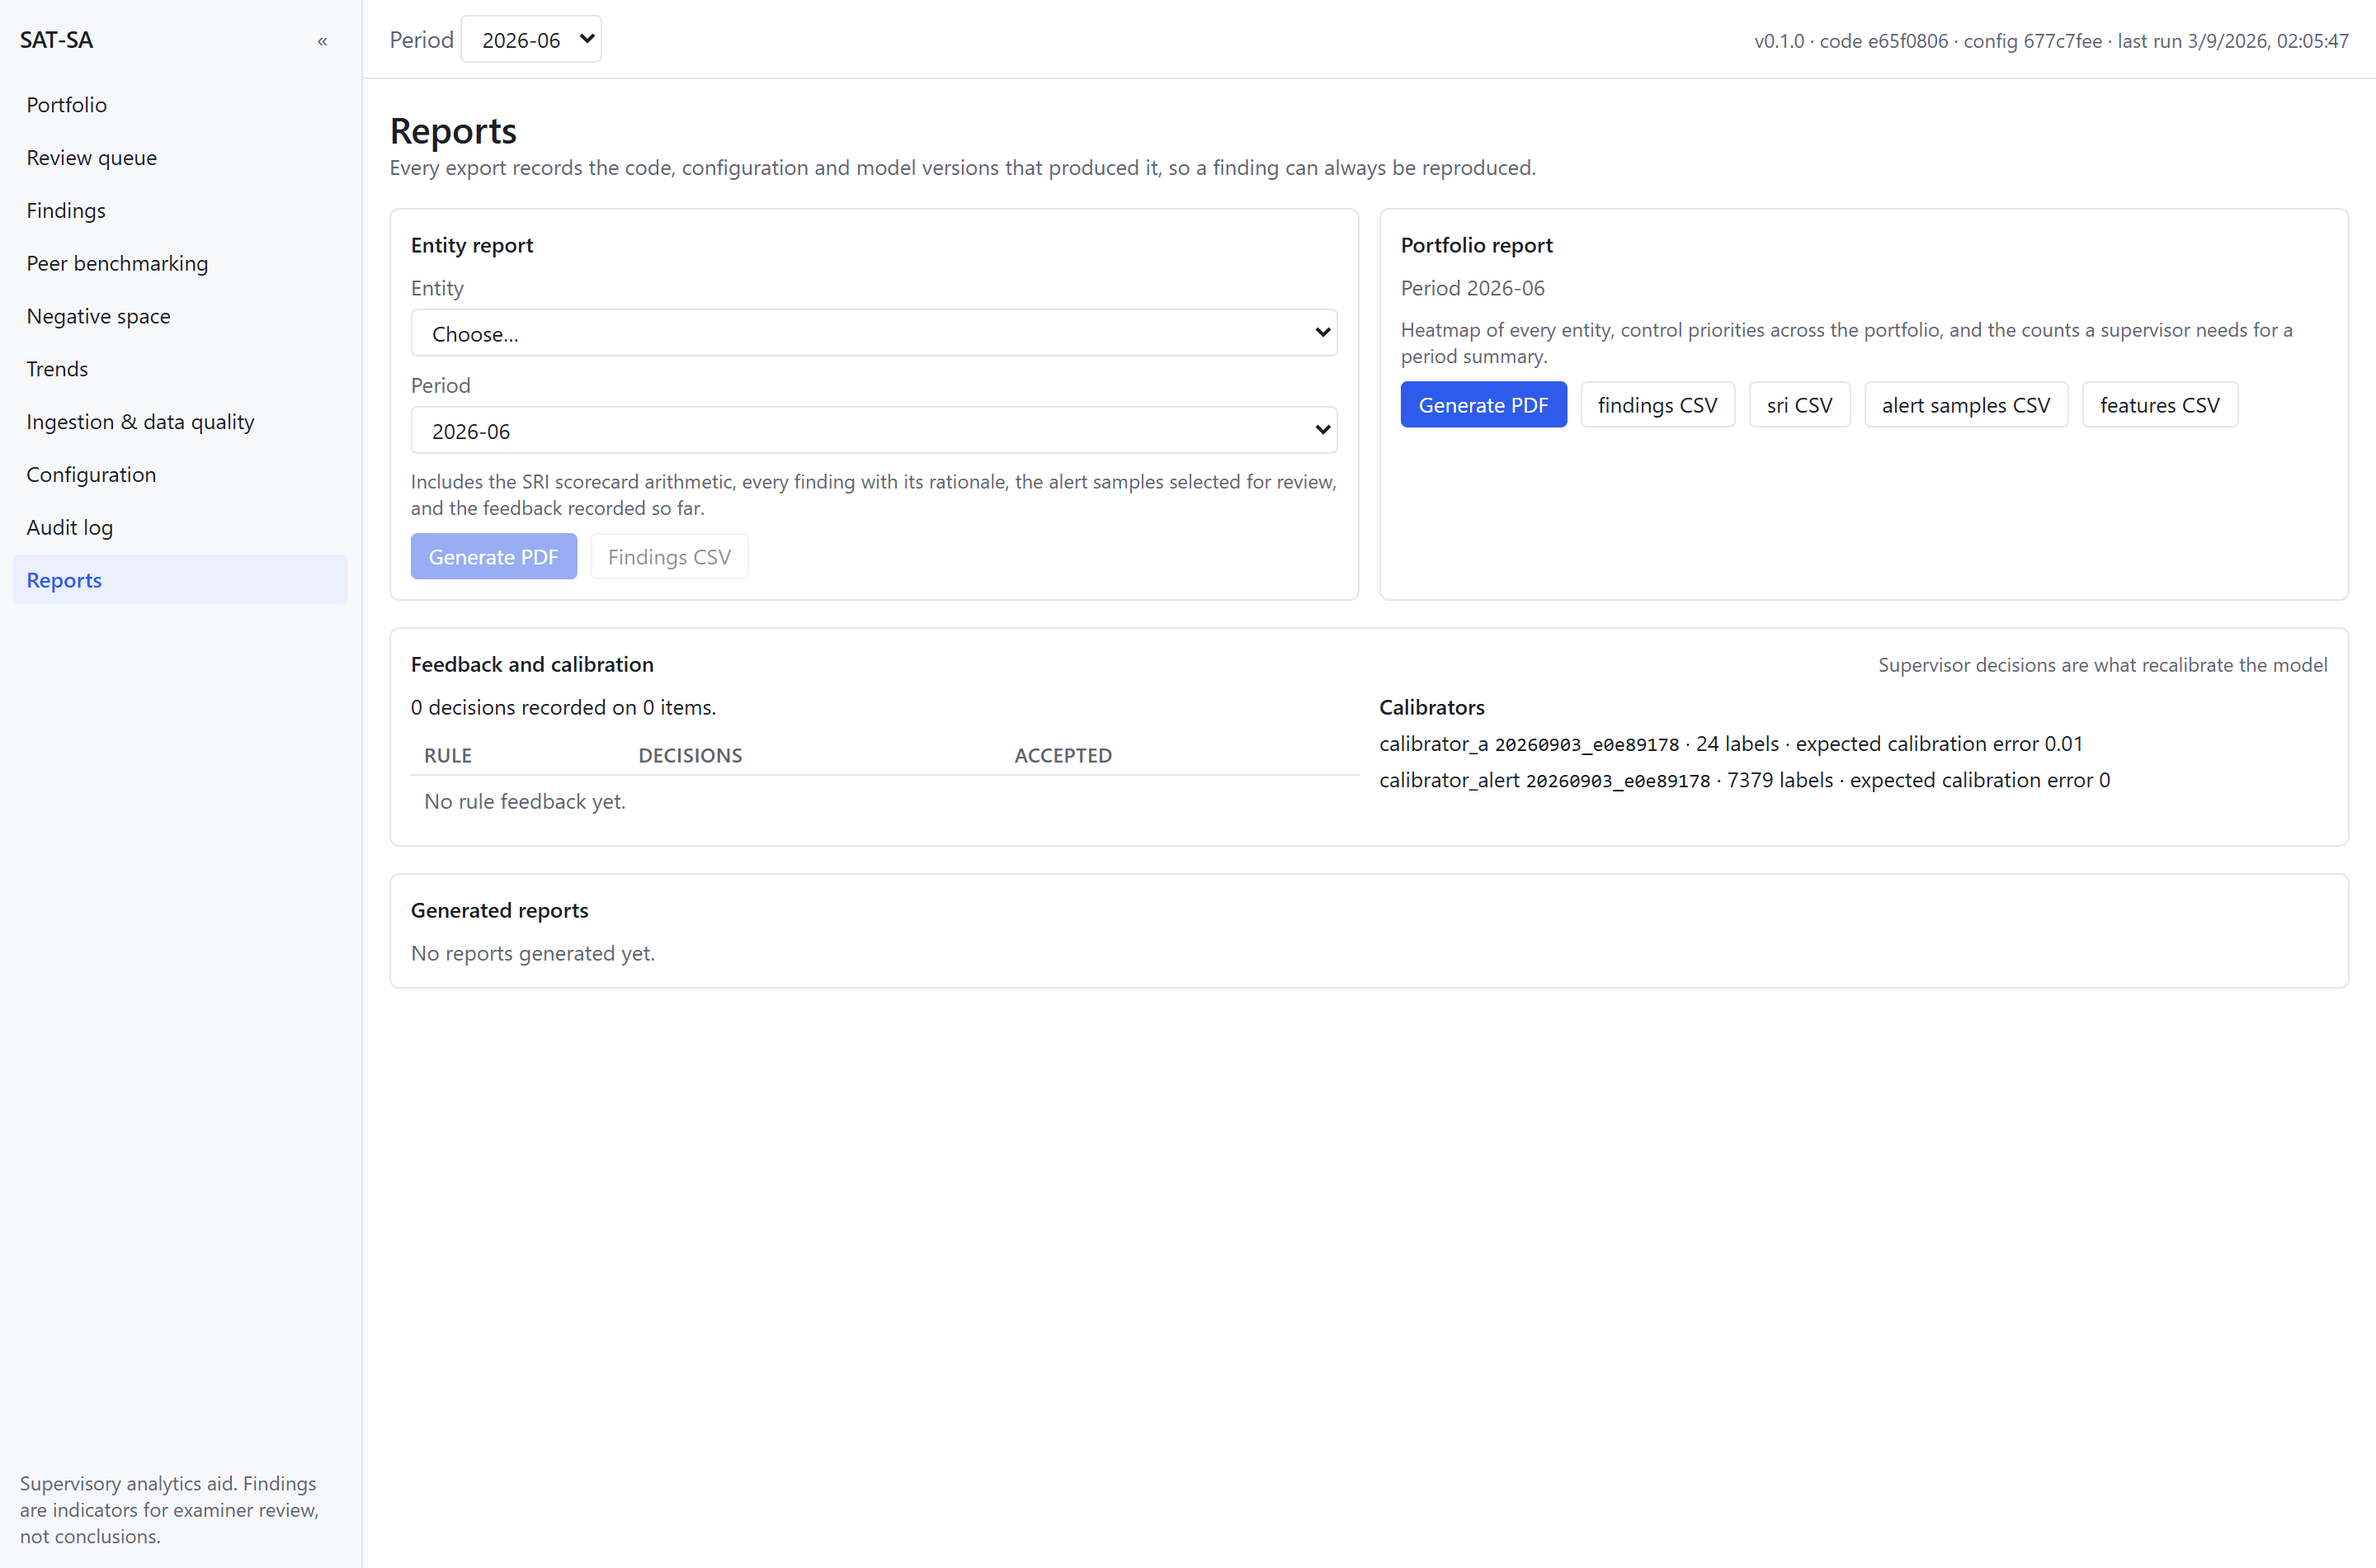
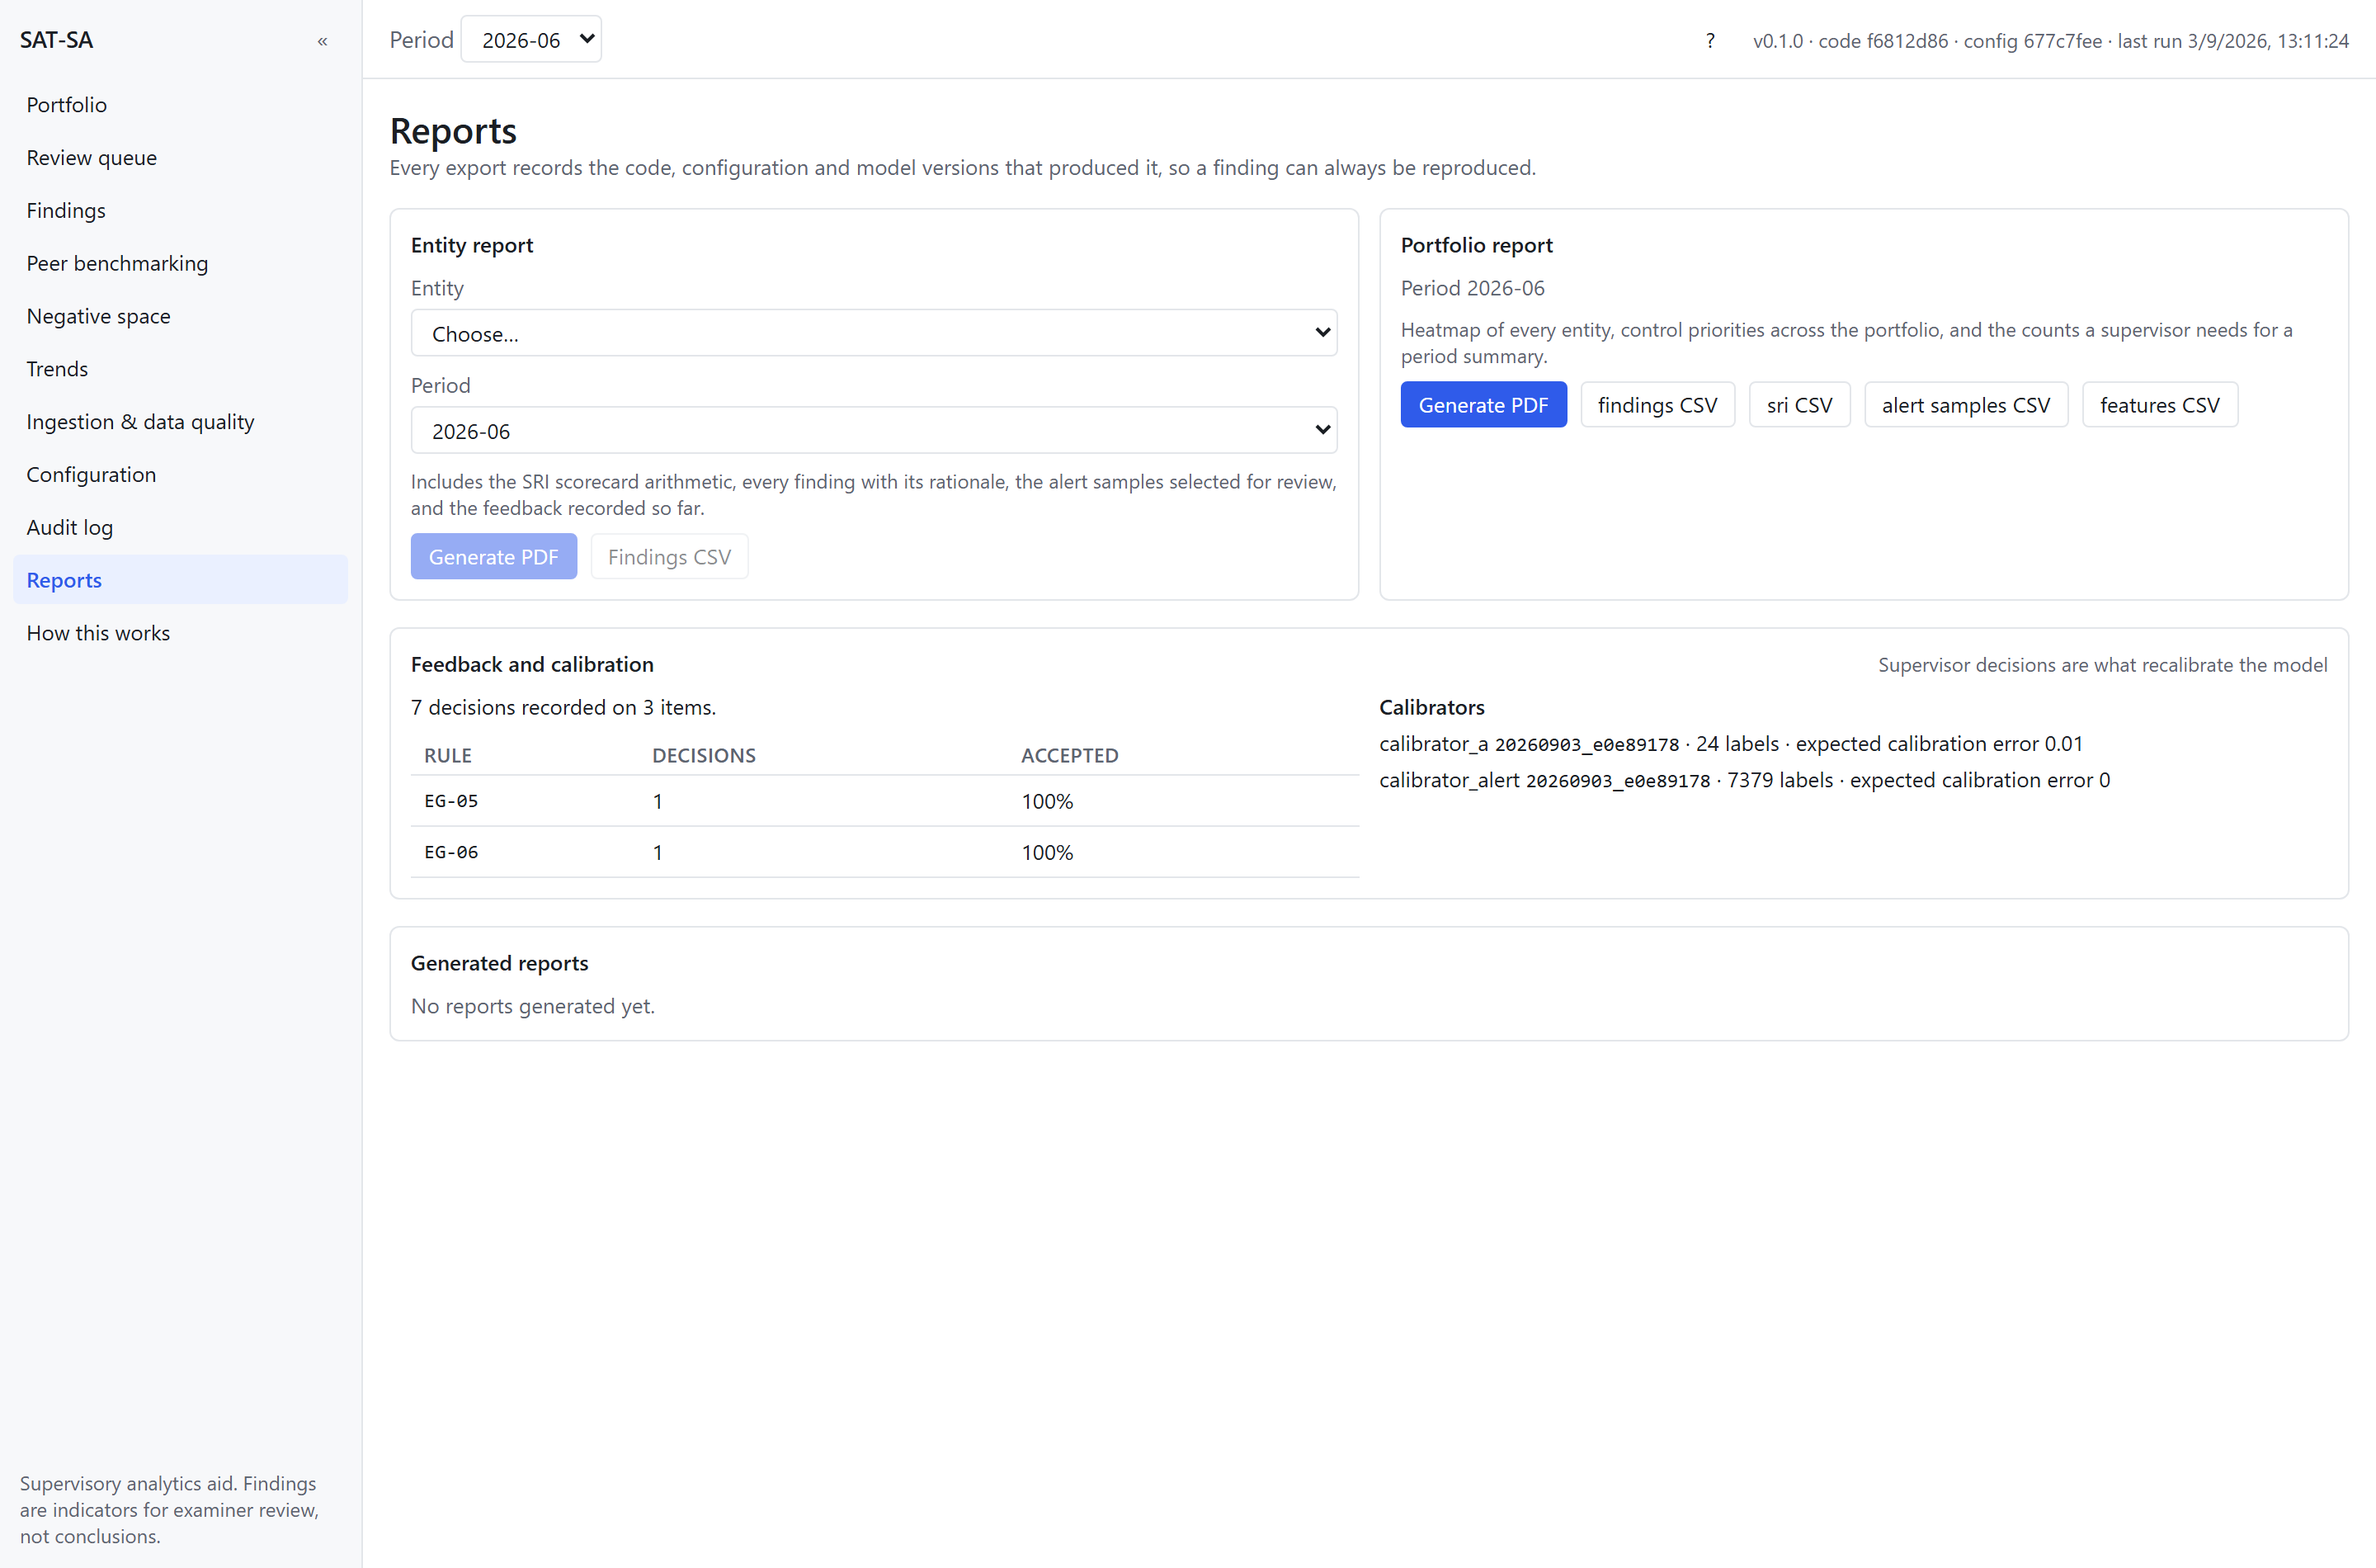
docs: describe the in-app guide, and screenshot it
README and the walkthrough now say the tool explains itself, and the walkthrough
gains a section on the three ways into the guide and on why it cannot go stale.

screenshots.py generates two more images from the running application: the
reference page, and the help panel, which is a state rather than a URL and so
has to be opened with the keyboard.

KNOWN_GAPS gap 7 is corrected rather than closed. The dashboard now has 22
frontend tests where it had none, but they are all about the guide; no
supervisory screen has a render test yet, and there is still no axe pass.

diff --git a/dashboard/scripts/screenshots.py b/dashboard/scripts/screenshots.py
@@ -35,6 +35,8 @@ SHOTS: list[tuple[str, str, str]] = [
     ("config", f"/config?period={PERIOD}", "Weights, and the threshold derived from the cost of being wrong"),
     ("audit", f"/audit?period={PERIOD}", "The hash-chained run log"),
     ("reports", f"/reports?period={PERIOD}", "PDF and CSV export, stamped with provenance"),
+    ("guide", "/guide", "The in-app guide: every control, what it does and what it demonstrates"),
+    ("help", "", "The help panel, opened with Shift+/ on any screen"),  # opened, not a bare URL
 ]
 
 
@@ -70,6 +72,15 @@ def main() -> int:
         page.screenshot(path=OUT / "records.png")
         written.append("records")
         print("  records.png")
+
+        # The help panel is a state, not a URL. Shift+/ opens it for whatever screen you are on.
+        page.goto(f"{BASE}/portfolio?period={PERIOD}", wait_until="networkidle")
+        page.wait_for_timeout(1000)
+        page.keyboard.press("Shift+Slash")
+        page.wait_for_timeout(800)
+        page.screenshot(path=OUT / "help.png")
+        written.append("help")
+        print("  help.png")
 
         browser.close()
     print(f"\n{len(written)} screenshots in {OUT}")

diff --git a/docs/walkthrough.md b/docs/walkthrough.md
@@ -159,17 +159,26 @@ node scripts/check-offline.mjs      # fails if the bundle references any externa
 Set the period selector at the top to **2026-06** and start on Portfolio. Every figure
 below is what that period actually shows.
 
+> **The tool also explains itself.** Everything in this part is available inside the running
+> application, next to the controls it describes. Press `Shift` + `/` on any screen for a panel
+> covering the controls in front of you, open **How this works** in the navigation for the full
+> searchable reference, or take the nine-step guided tour. This document is the version you can
+> read without starting the server. See [2.15](#215-the-in-app-guide).
+
 ## 2.1 The shell
 
 Present on every screen:
 
-- **Navigation rail**, ten routes, collapsible with the `«` button. A skip link precedes it
-  for keyboard users.
+- **Navigation rail**, eleven routes, collapsible with the `«` button. A skip link precedes
+  it for keyboard users. The last route, **How this works**, is the guide to the other ten.
 - **Period selector**, top left. It writes to the URL as `?period=2026-06`, so every view is
   deep-linkable and the browser back button works properly.
 - **Provenance chip**, top right: `v0.1.0 · code e65f0806 · config 677c7fee · last run …`.
   Click it to jump to the audit log. This is the answer to "which version produced what I am
   looking at", visible without asking.
+- **Help button** (`?`), top right beside the provenance chip, or `Shift` + `/` from
+  anywhere outside a text field. Opens a panel describing every control on the screen you are
+  currently looking at.
 - **Footer note**: *Supervisory analytics aid. Findings are indicators for examiner review,
   not conclusions.* Deliberately always on screen.
 
@@ -497,3 +506,46 @@ reproducible and audited.
 
 Claiming an accuracy number here would be the one thing that undermines everything else on
 these screens.
+
+---
+
+## 2.15 The in-app guide
+
+![The guide](screenshots/guide.png)
+
+Everything in Part 2 is also inside the application, beside the controls it describes. There
+are three ways in.
+
+**The help panel.** Press `Shift` + `/` on any screen, or click the `?` beside the provenance
+chip. The panel lists every control on the screen you are looking at, with what it does, what
+it demonstrates, which URL parameter it writes, and a **Show me** button that dims the screen
+and points at it. It changes as you navigate. The guard on the shortcut means typing `?` in a
+comment box or a weight field does nothing, as it should.
+
+![The help panel](screenshots/help.png)
+
+**The reference.** **How this works** in the navigation, or `/guide`, describes all 98
+controls in one searchable page. Filter by screen, by kind of control, or by **Watch out for
+these**, which collects the six behaviours that surprise people: the period being global and
+sticky, filters persisting between screens because they live in the address bar, a re-uploaded
+file being a deliberate no-op, an unchanged run being skipped rather than repeated, saving the
+configuration not changing any result until you re-run, and the feedback shortcuts being
+bar-wide rather than per button. The page closes with the twelve ideas the screens assume:
+the risk indicator, the threshold, the uncertainty band, peer groups, negative space,
+calibration, provenance and the rest.
+
+**The guided tour.** From the reference page or the help panel. Nine steps across three
+screens, following the drill-down the tool is built around: the period selector, the two
+heatmap lenses, the uncertain count, the ranking, an entity's scorecard arithmetic, a
+finding's threshold line, the raw records behind it, the examiner's decision, and the
+provenance chip. It navigates for you, it keeps the selected period throughout, and its
+position lives in the address bar as `?tour=onboarding.4`, so a tour link opens at that step
+and a reload resumes where you were. Escape ends it. Nothing ever starts on its own; a first
+visit gets one dismissable toast offering it.
+
+**Why it cannot go stale.** One content model in `dashboard/src/guide/content.ts` drives all
+three surfaces, and each control it describes is bound to a real element by a `data-guide`
+attribute. A test parses the source and reconciles the two in both directions: an attribute
+with no description fails, a description with no attribute fails, and any interactive element
+that is neither described nor listed in `dashboard/src/guide/exempt.ts` with a written reason
+fails too. Renaming a URL parameter fails. Adding a button fails until you say what it is for.

diff --git a/README.md b/README.md
@@ -113,14 +113,21 @@ Built against the approved implementation plan. Gaps are tracked honestly in
 
 ## The screens
 
-Ten routes. The dashboard is bundled locally, served by the API from the same origin, and
+Eleven routes, the eleventh being the guide to the other ten. The dashboard is bundled locally, served by the API from the same origin, and
 references no external host; `dashboard/scripts/check-offline.mjs` fails the build if it
 ever does.
 
 `dashboard/scripts/screenshots.py` regenerates every image below by driving the built UI in
 a real browser against the running application, so none of them can drift from what it
-actually renders. A step-by-step tour of every feature is in
-[`docs/walkthrough.md`](docs/walkthrough.md).
+actually renders.
+
+**The tool explains itself.** `/guide` describes all 98 controls: what each one does when you
+use it, and what supervisory idea it demonstrates. Pressing `Shift` + `/` on any screen opens
+the same explanation for whatever you are looking at, and a nine-step guided tour walks the
+drill-down from the portfolio ranking to the alerts behind one finding. A test reconciles
+every description against the running interface in both directions, so a control cannot be
+renamed, or added, without the guide failing the build. There is a written version in
+[`docs/walkthrough.md`](docs/walkthrough.md) as well.
 
 | | |
 |---|---|
@@ -132,6 +139,8 @@ actually renders. A step-by-step tour of every feature is in
 | **Negative space.** Expected evidence that is absent, hatched and labelled `ABS`. Click a cell for the three reasons it was expected. | **Configuration.** `t*` recomputes live as you change the cost of being wrong, and the impact is previewed before anything is saved. |
 | ![Audit](docs/screenshots/audit.png) | ![Ingestion](docs/screenshots/ingestion.png) |
 | **Audit.** 55 hash-chained runs, verifiable from the page. | **Ingestion.** Validation counts down to the individual check, because dirty submissions are themselves a finding. |
+| ![Guide](docs/screenshots/guide.png) | ![Help panel](docs/screenshots/help.png) |
+| **Guide.** Every control in the tool, searchable, with the pitfalls collected in one place. | **Help panel.** `Shift` + `/` on any screen, describing the controls in front of you, each with a Show me that points at it. |
 
 | Route | What it shows |
 |---|---|
@@ -145,6 +154,7 @@ actually renders. A step-by-step tour of every feature is in
 | `/ingestion` | Upload, per-submission validation counts down to the check level, and the pipeline stage log. |
 | `/config` | The weights, and the costs with `t* = C_FP / (C_FP + C_FN)` recomputing live as you change them. Preview the effect on every entity before saving. |
 | `/audit` and `/reports` | The hash-chained run log with a verify button, the model registry, and PDF or CSV export. |
+| `/guide` | Every control in the tool: what it does, what it demonstrates, which URL parameter it writes, and what surprises people. Plus the twelve ideas the screens assume. |
 
 The path from portfolio to raw records is three clicks: heatmap cell, finding row, records
 tab.

diff --git a/KNOWN_GAPS.md b/KNOWN_GAPS.md
@@ -104,12 +104,14 @@ feature building.
 
 ---
 
-## 7. No frontend unit tests, and no accessibility audit
+## 7. Thin frontend test coverage, and no accessibility audit
 
-**What is wrong.** The dashboard has no Vitest tests despite Vitest and Testing Library being
-configured. The accessibility work was designed in, colour is never the only cue, every chart
-carries a hidden data table, focus rings are preserved, but it has never been audited with a
-tool.
+**What is wrong.** The dashboard has 22 Vitest tests, all of them about the in-app guide: the
+drift test that reconciles every described control against the running interface, the popover
+placement arithmetic, the Escape layer stack, and a render test for the reference page. There
+is still no render test for any of the eleven supervisory screens. The accessibility work was
+designed in, colour is never the only cue, every chart carries a hidden data table, focus rings
+are preserved, but it has never been audited with a tool.
 
 **What has since been done.** All eleven routes are loaded in a real browser and checked for
 console errors, failed requests and rendered content, and the three-click drill-down is
@@ -119,7 +121,8 @@ heading "Trend". `dashboard/scripts/screenshots.py` regenerates every README ima
 running application.
 
 **Why the rest still matters.** A browser smoke pass is not a unit test suite; it catches
-crashes, not wrong values. An axe pass would replace assertion with measurement.
+crashes, not wrong values. The guide tests prove the guide is honest, not that the analytics
+screens render the right numbers. An axe pass would replace assertion with measurement.
 
 **The fix.** Vitest render tests per route against mocked responses, and axe on each route.
 
